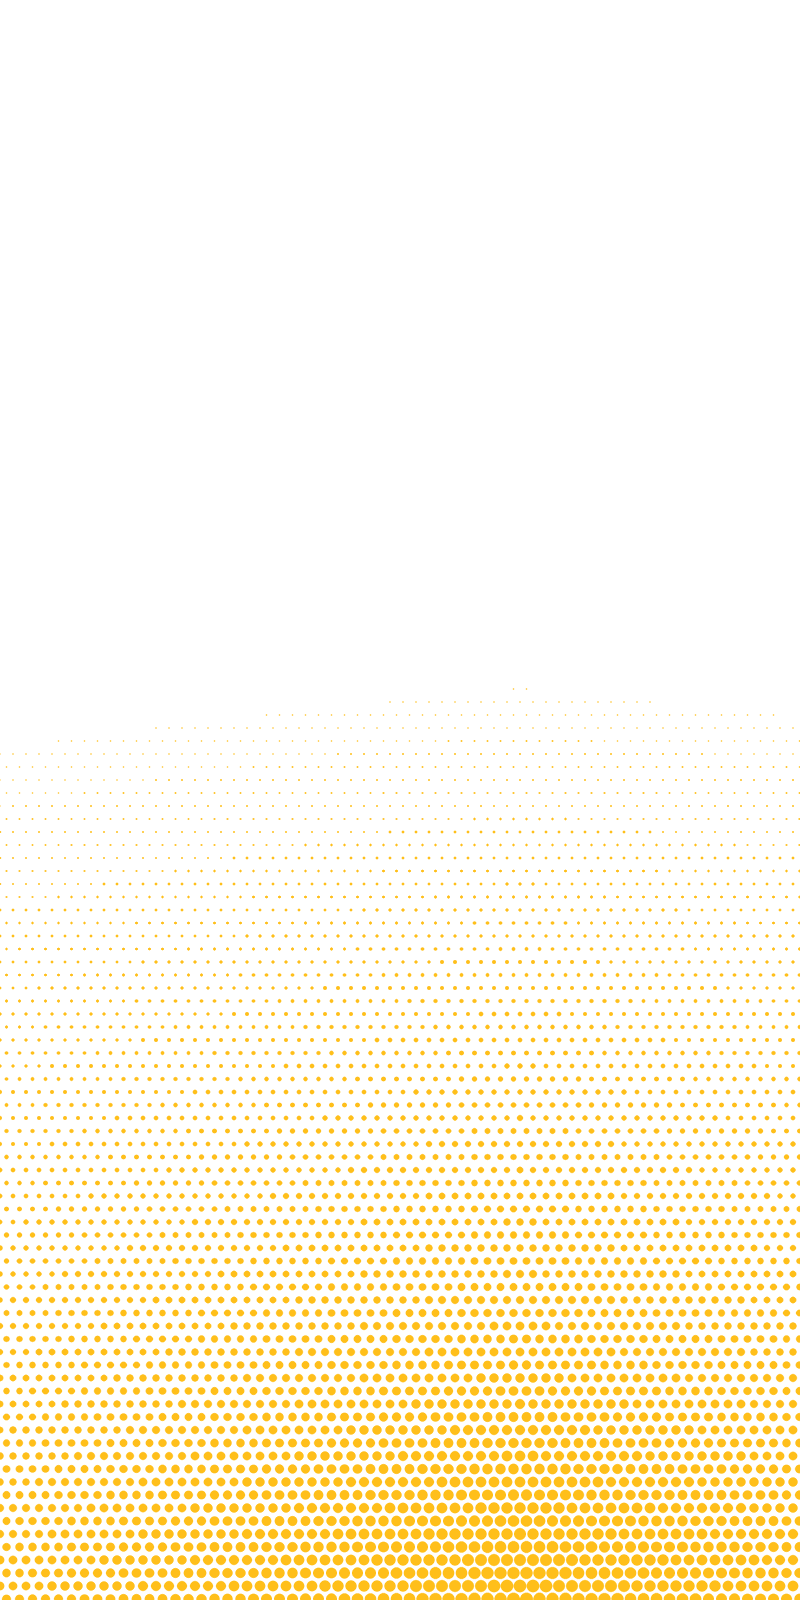
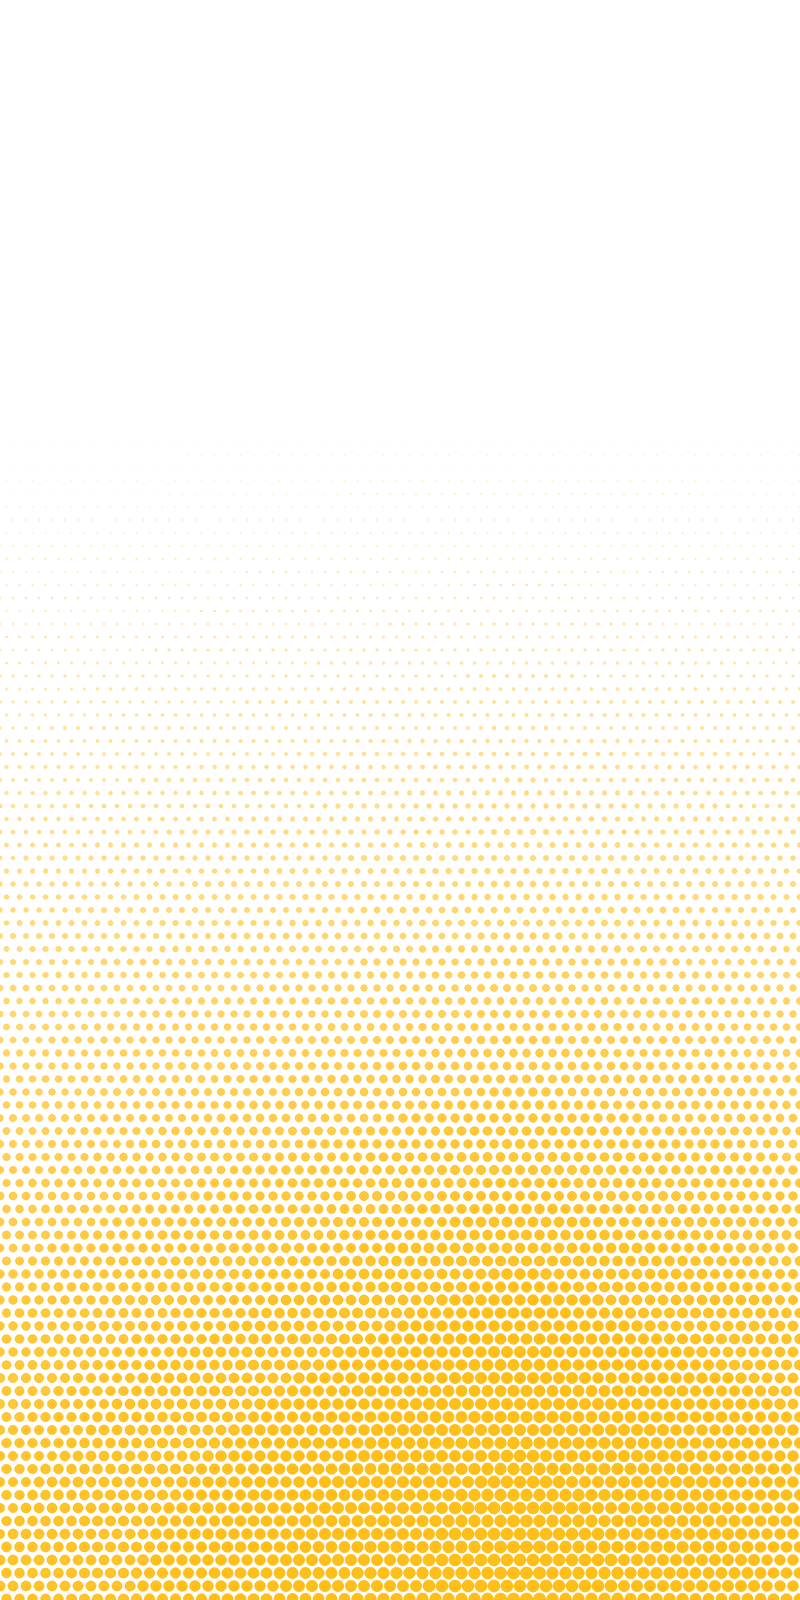
bg gradient fix

Changed region(s): [[0.0, 0.4375, 1.0, 1.0]]

diff --git a/assets/bigm.css b/assets/bigm.css
@@ -905,9 +905,9 @@ body { font-size: 1.2rem; line-height: 1.4; }
 /* Hero auf Tablet und Handy: derselbe Halbton-Verlauf wie auf dem Desktop, nur von oben
    (kein Raster hinter dem Text) nach unten (dichtes Raster hinter den Produkten) */
 @media (max-width: 900px) {
-  .sec--hero::before { background: url(img/hero-halftone-v.webp) center bottom / cover no-repeat; opacity: .9; }
+  .sec--hero::before { background: url(img/hero-halftone-v.webp) center bottom / cover no-repeat; opacity: .85; }
   .sec--hero::after {
-    background: linear-gradient(180deg, rgba(28, 28, 28, .6) 0%, rgba(28, 28, 28, 0) 35%, rgba(28, 28, 28, 0) 88%, rgba(28, 28, 28, .45) 100%);
+    background: linear-gradient(180deg, #1C1C1C 0%, rgba(28, 28, 28, .92) 22%, rgba(28, 28, 28, .6) 45%, rgba(28, 28, 28, .25) 68%, rgba(28, 28, 28, .1) 86%, rgba(28, 28, 28, .4) 100%);
   }
   .sec--pagetop::before { background: url(img/hero-halftone-v.webp) center bottom / cover no-repeat; opacity: .6; }
 }

diff --git a/produkt.html b/produkt.html
@@ -9,7 +9,7 @@
   <link rel="preconnect" href="https://fonts.googleapis.com">
   <link rel="preconnect" href="https://fonts.gstatic.com" crossorigin>
   <link href="https://fonts.googleapis.com/css2?family=Anton&display=swap" rel="stylesheet">
-  <link rel="stylesheet" href="assets/bigm.css?v=7">
+  <link rel="stylesheet" href="assets/bigm.css?v=8">
 </head>
 <body>
 <div class="page">

diff --git a/shop.html b/shop.html
@@ -9,7 +9,7 @@
   <link rel="preconnect" href="https://fonts.googleapis.com">
   <link rel="preconnect" href="https://fonts.gstatic.com" crossorigin>
   <link href="https://fonts.googleapis.com/css2?family=Anton&display=swap" rel="stylesheet">
-  <link rel="stylesheet" href="assets/bigm.css?v=7">
+  <link rel="stylesheet" href="assets/bigm.css?v=8">
 </head>
 <body>
 <div class="page">
